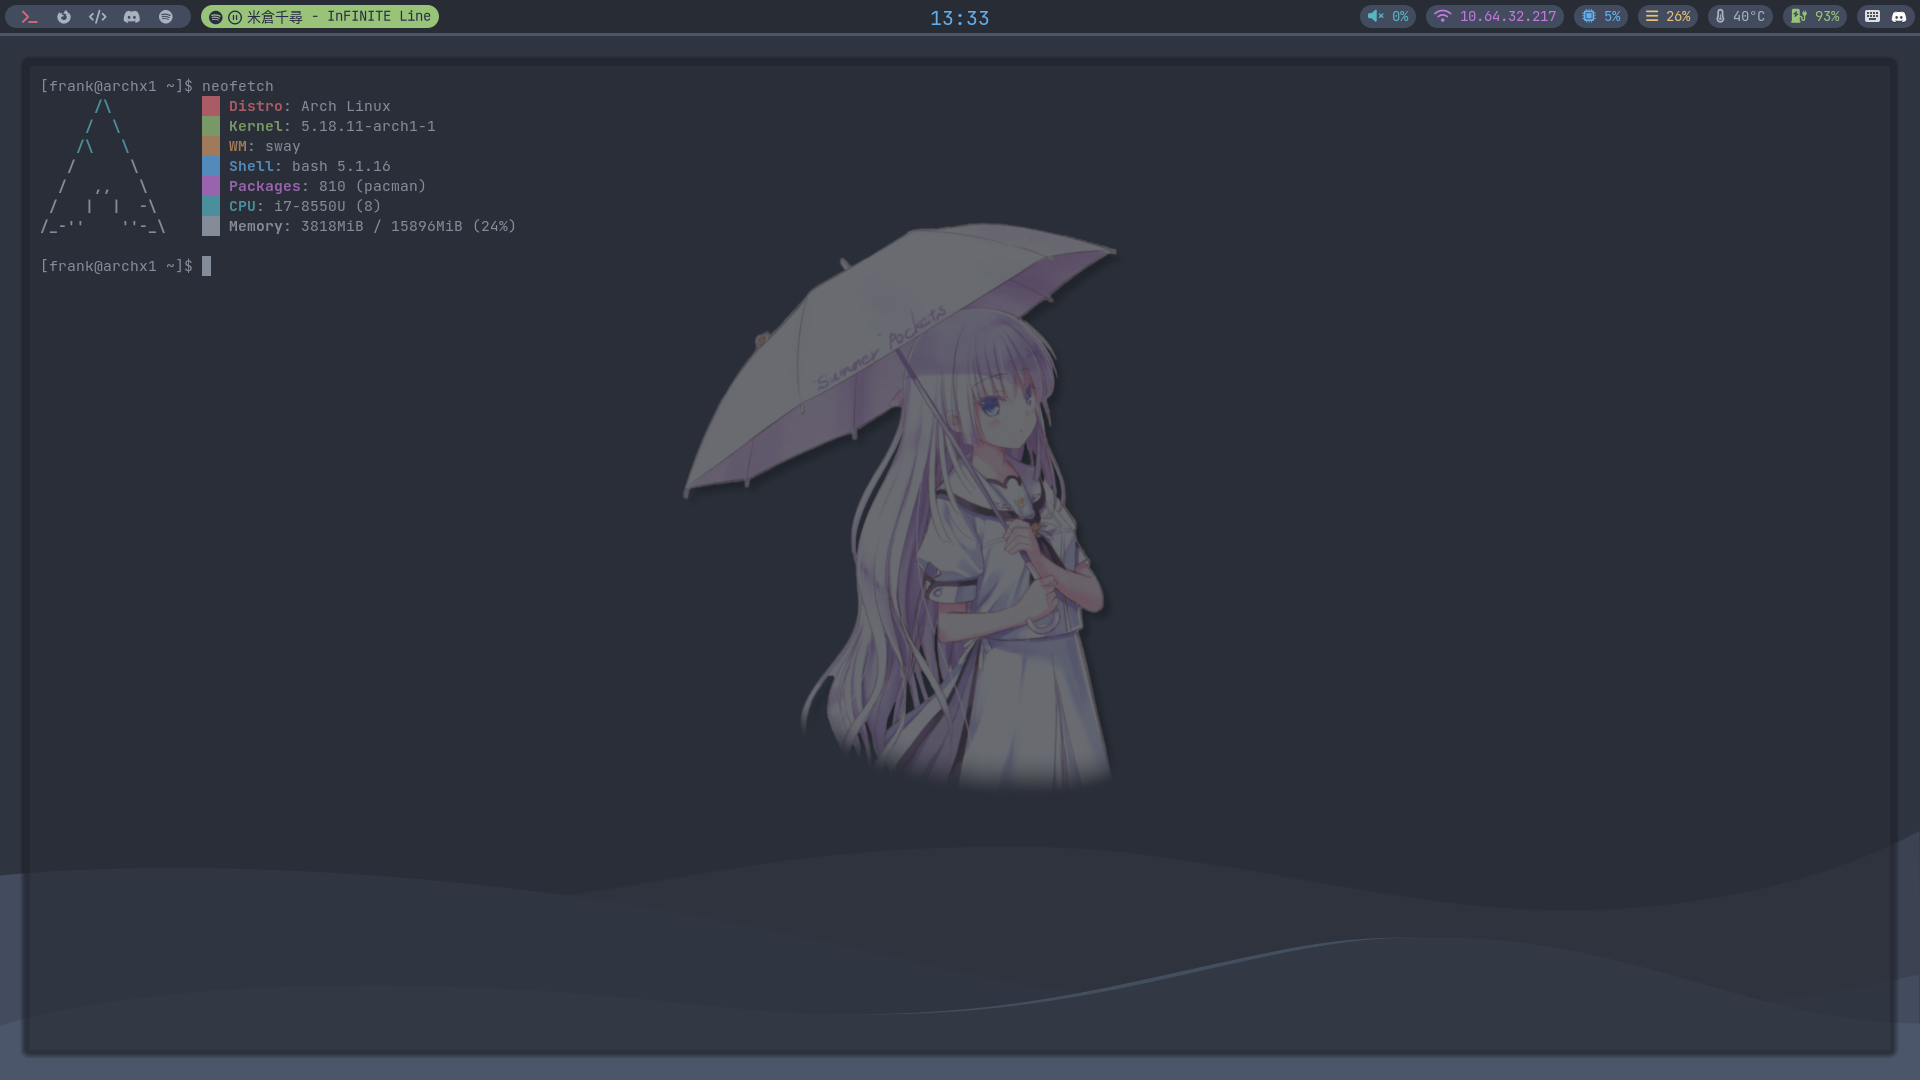
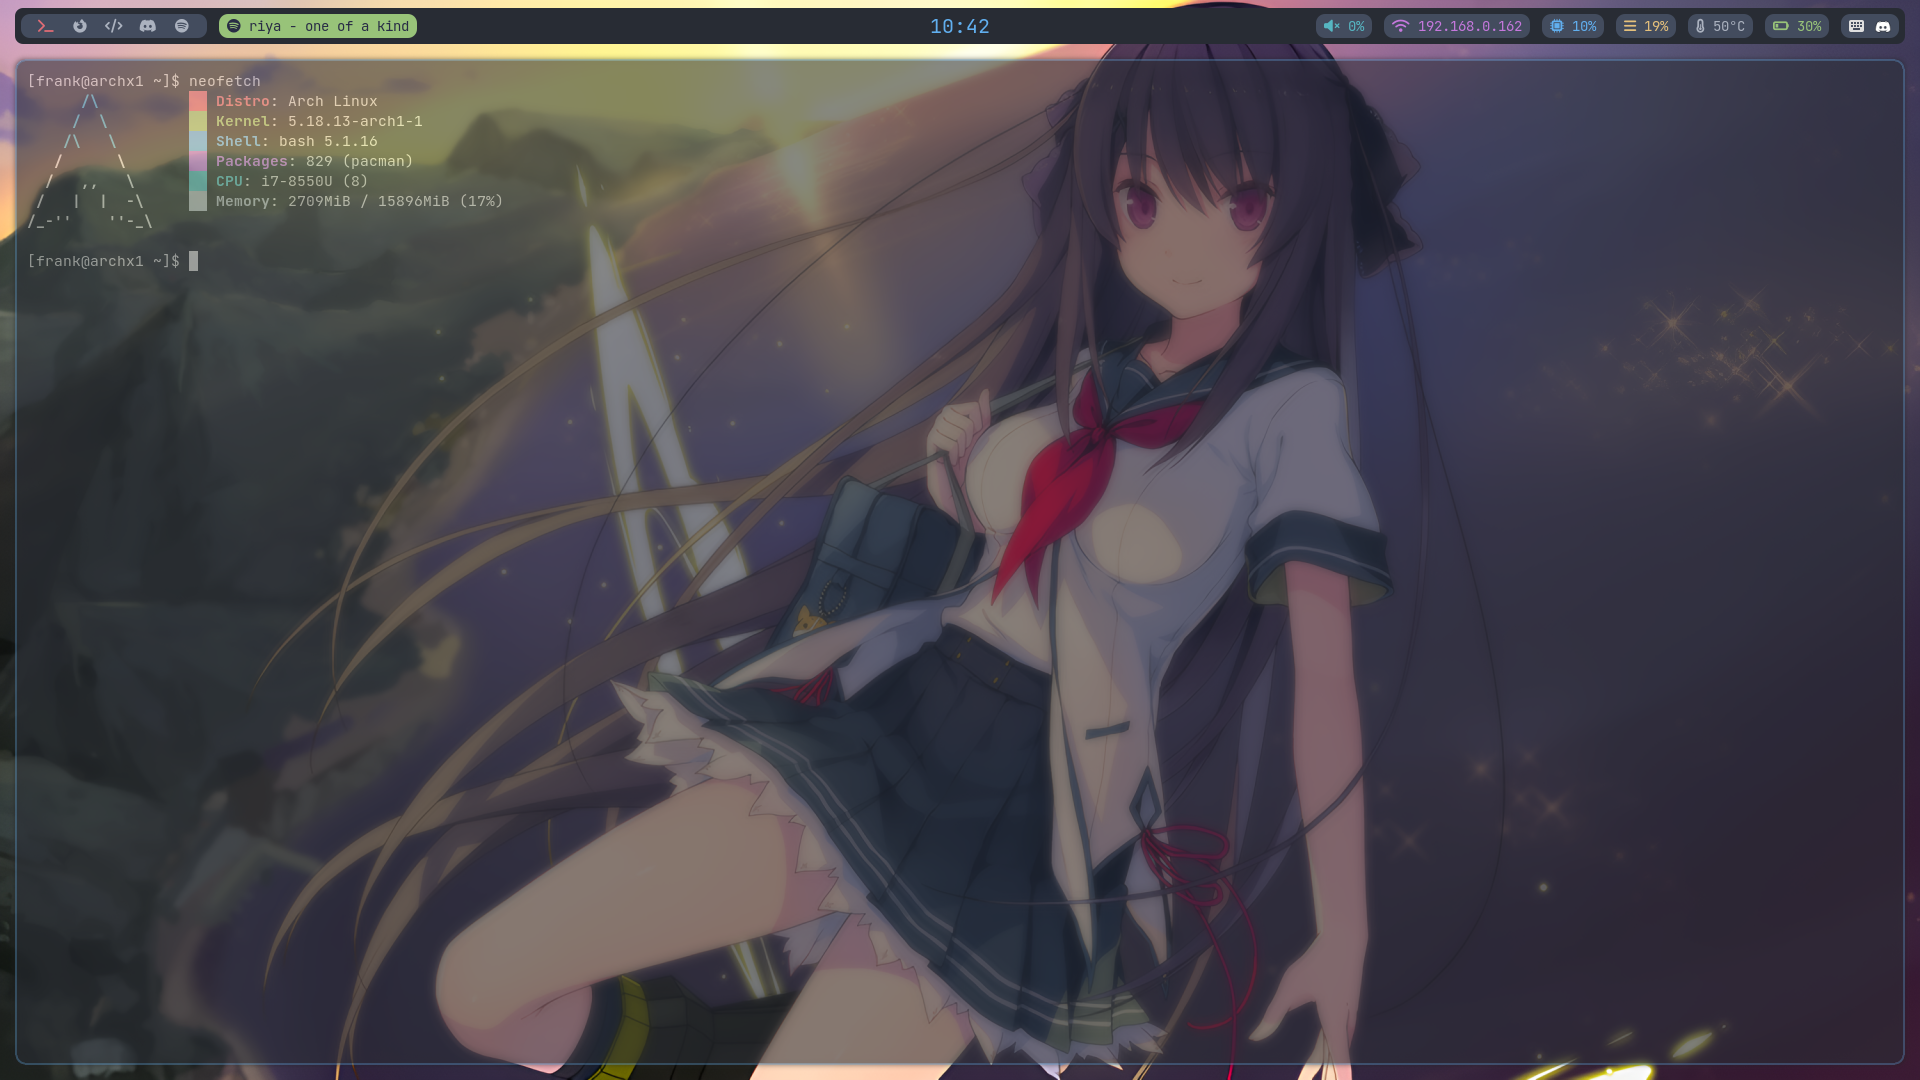
bar style

diff --git a/waybar/style.css b/waybar/style.css
@@ -15,16 +15,17 @@
 #tray {
 	background-color: #434C5E;
 	padding: 0 8px;
-	margin: 2px 2px 5px 2px;
+	margin: 3px 3px 3px 3px;
 	border:3px solid rgba(0, 0, 0, 0);
-	border-radius: 90px;
+	border-radius: 12px;
 	background-clip: padding-box;
 }
 
 window#waybar {
 	/* font color */
 	color: #ABB2BF;
-	border-bottom: 3px solid #4C566A;
+	/*border-bottom: 3px solid #4C566A;*/
+	border-radius: 8px;
 	background-color: #282C34;
 	transition-property: background-color;
 	transition-duration: 0.5s;
